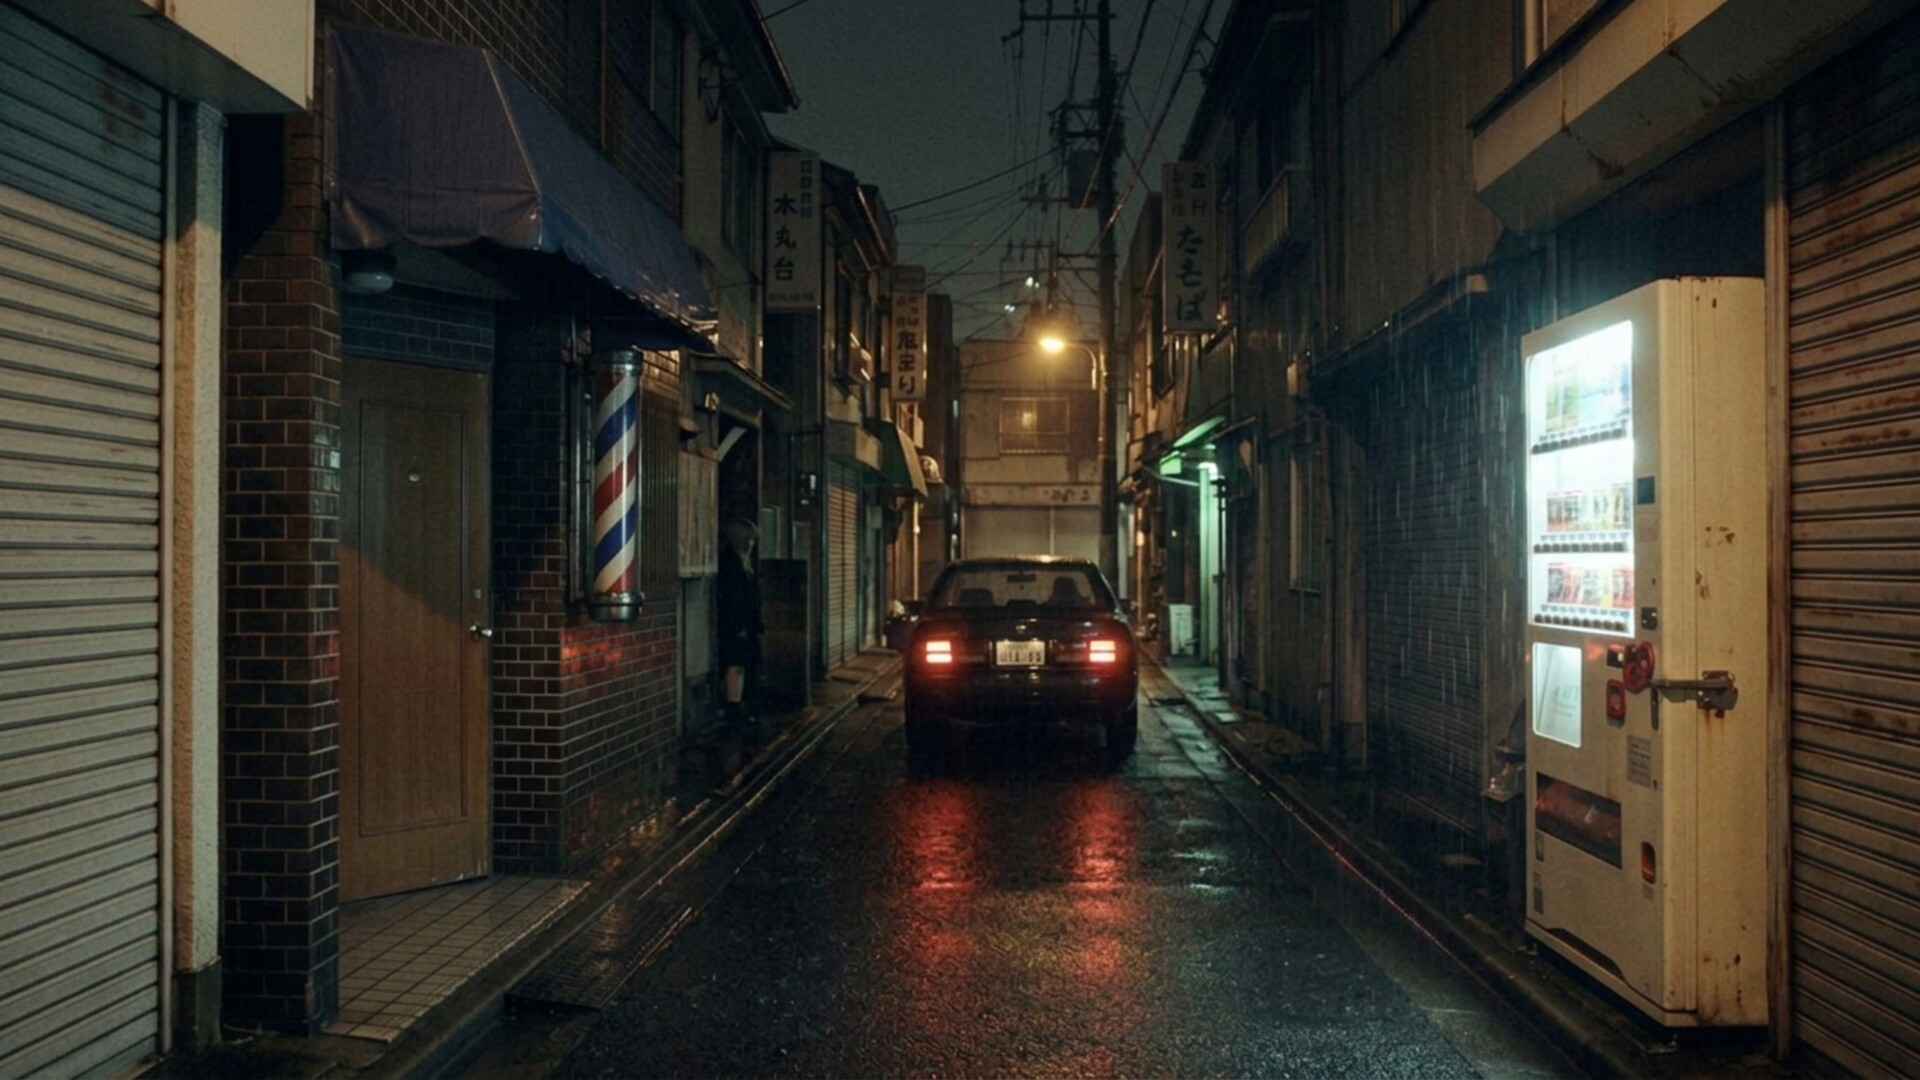
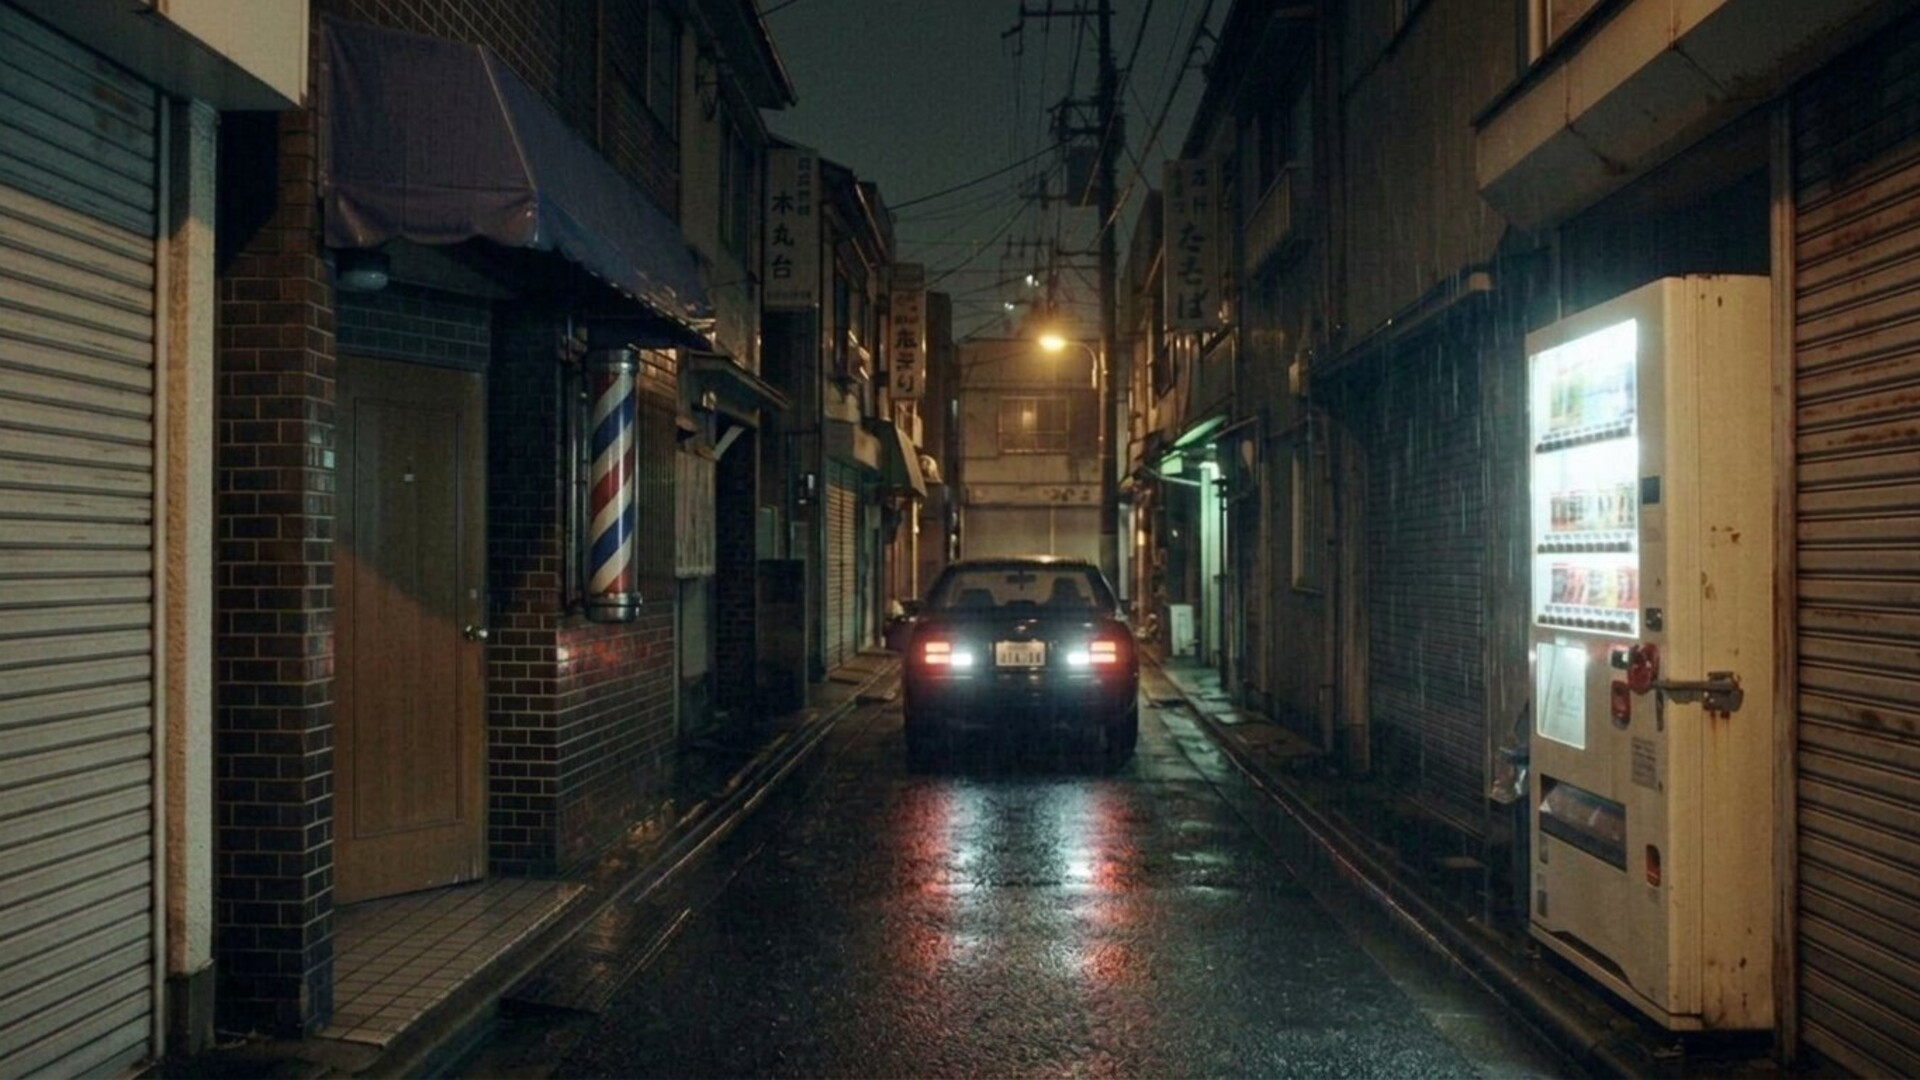
Retake shot 13: the sedan backs out, it does not turn
The Kanda alley is one car wide and shot 8 stops the car nose-to-camera, so a turnaround does not fit. The departure now reads as a reverse: white reverse lamps with the red taillights, same camera, empty doorway.

diff --git a/docs/neonoire/handoff.md b/docs/neonoire/handoff.md
@@ -1,5 +1,9 @@
 # NEONOIRE — keyframe handoff
 
+## Current state — 27 September 2026
+
+Shot 13 (`s1/13-taillights-gone.jpg`) was retaken. The alley is one car wide and the sedan arrives nose-to-camera, so it cannot turn around. It backs out: white reverse lamps with the red taillights, same camera, doorway empty. Ledger: [taillights-backs-out.md](passes/taillights-backs-out.md). Scene 95's light-trail U-turn was not retaken.
+
 ## Current state — 26 September 2026
 
 The final screenplay is `Neonoire (3).fountain`: **100 scenes**, unchanged. The numbered board covers **all 100 scenes, 279 shots** — the first boarding (1–240) plus coverage (241–279) as of 26 September 2026. **All 279 shot images are on disk; no placeholder slots remain.** All images are full-bleed 16:9, 1920×1080 JPEG. The newest pass is **[the final coverage pass, shots 270–279](passes/coverage-270-279.md)**: ten new shots, one generation each with references attached — the packed suitcase, the sketchbook lie, Kurose's tiny white tree, the receipt bundle, the bow held too long, the kiss, Mara sliding down the wall, the borrowed umbrella, the clock reading 10:00 and her sister's smile — every frame reviewed at full size, every flaw logged in the ledger. Before it, **[looks, masks and paper props](passes/looks-masks-props.md)**: three more sheets — Vera's wine-red dress (`vera-look-b.jpg`), Mara's hiding look (`mara-hiding.jpg`) and the masked men's raid costume (`masked-man.jpg`) — plus six clean prop masters in `props/`: the four-line card, the DANIEL VOSS clipping, the 87 tag, the 金子 sign board, the MONTHLY. YEARLY. NO QUESTIONS. board and the 8:52 sign, every letter read at full size before install. One call died on a stale path (`s61` for `s67`'s frame) and was re-listed and retaken. Before it, the **[cast-sheet pass](passes/cast-sheets.md)**: nine identity sheets in the house layout from ten calls — Kaneko, Okada, Kurose, Mr. and Mrs. Noda, the repairman, Harada, the young detective, and Vera's Look F (teal peacoat, red clip). The first repairman sheet was discarded for describing him from memory (no glasses, wrong jacket); the retake holds to `s87/124`. Sheets carry faces and garments; scene masters still carry rooms, light and staging. Mara's hiding look remains held to `s13/179-eat.jpg`. Before it, [consistency retakes two](passes/consistency-retakes-2.md) closed the pole, the strap, the wood, the card, the headcount and the rail, and [consistency retakes one](passes/consistency-retakes-1.md) locked the third-stool motif, the 金子 sign, Mr. Noda behind the counter and Jack's hands at 48. Review sheets are one command: `npm run review:neonoire -- <out.jpg> s65 ...`.

diff --git a/docs/neonoire/scenes/n01-backstreet.md b/docs/neonoire/scenes/n01-backstreet.md
@@ -126,13 +126,13 @@ IMAGE: 12-masked-man-radio.jpg
 NOTE: He is a man doing a job on a shift. Mundane, never menacing in performance; the voice on the radio does the work.
 
 13. WIDE — 35mm, static, eye level — the sedan pulls away.
-They get back in the car. It pulls away, unhurried, taillights smearing red across the wet road and gone. Rain, the vending machine hum, the crossing melody still playing for no one. Mara doesn't move.
+Same camera as the arrival. The alley is one car wide, so the sedan cannot turn around. It stopped nose-to-camera; it backs straight out the way it came, rear to camera, white reverse lamps lit with the red taillights, a short smear of both on the wet asphalt. Doors closed. The doorway stays empty. Mara doesn't move.
 SCRIPT: "It pulls away, unhurried. Taillights smear red across the road and are gone."
 CAST: —
 LIGHT: Practical night
 TIME: 10
 IMAGE: 13-taillights-gone.jpg
-NOTE: A pedestrian crossing chimes somewhere off camera for an empty intersection, over and over. The street is emptier after they leave than it was before they came.
+NOTE: Retake 27 September 2026. The alley will not take a turn: shot 8 stops the sedan nose-to-camera with the doors against the walls, so the rear already points down the lane. It backs out. It does not turn. White reverse lamps are the proof, with the red taillights. The plate is not legible and is not claimed. The vending face drifted slightly from the master; the pole, the door and the side hold. No people. A pedestrian crossing chimes somewhere off camera for an empty intersection, over and over. The street is emptier after they leave than it was before they came.
 
 14. MEDIUM — 50mm, static, eye level — she kneels.
 She steps out into the rain and kneels beside him: "It's okay — I'll get someone. Ambulance. I'll call. Ambulance." Her phone is off, and her hands shake too hard to turn it on.

diff --git a/docs/neonoire/passes/taillights-backs-out.md b/docs/neonoire/passes/taillights-backs-out.md
@@ -1,0 +1,21 @@
+# NEONOIRE — shot 13 retake: the sedan backs out (27 September 2026)
+
+**Scope:** one retake of shot 13, `s1/13-taillights-gone.jpg`. Nothing renumbered. Two generations were spent. The first faced the car the wrong way (headlights toward camera) and was not installed.
+
+Review sheet: [taillights-backs-out.jpg](../../../public/images/neonoire/reviews/taillights-backs-out.jpg) — shot 8 beside the retake.
+
+## Why it cannot turn around
+
+Shot 8 stops the sedan nose-to-camera in an alley one car wide. The open doors already sit against the walls. A U-turn or a three-point turn does not fit. The rear already points down the lane, back the way it came. The only departure that shows taillights to this camera is a reverse.
+
+The previous frame had the rear toward camera and red tails only, which read as a forward drive-away — a car that had faced about. That was the error.
+
+## The retake
+
+Same camera, same alley: barber pole and door on the left, vending machine on the right. The sedan backs straight out. Rear to camera, doors closed, not steered. White reverse lamps are lit with the red taillights, and both smear on the wet asphalt between the car and the camera. The doorway is empty. Mara does not move. No people.
+
+## Caveats
+
+- The plate is not legible. Do not claim a number.
+- The vending face drifted slightly from the master. The pole, the door and the side hold.
+- Scene 95 (`s95/142-taillights.jpg`) was not retaken. Its light trail still draws a U-turn. The script there asks for a corner, on a different street, and that frame is a separate question.

diff --git a/docs/neonoire/passes/cold-open-revision.md b/docs/neonoire/passes/cold-open-revision.md
@@ -42,7 +42,7 @@ All revised files are full-bleed **1920×1080**, fine 35mm grain, muted practica
 
 11. Mara covers her mouth with both hands, still hidden in the same recess.
 12. Same masked man listens to earpiece; only eyes exposed.
-13. Same sedan departs unhurriedly, red taillights; no chase.
+13. Same sedan departs unhurriedly, red taillights; no chase. Retake 27 September 2026: it backs out, it does not turn — the alley is one car wide. See [taillights-backs-out.md](taillights-backs-out.md).
 14. Mara kneels next to the fallen man, fumbling her switched-off phone; handbag still present.
 15. His hand catches her wrist and transfers the key; keep bodies/coat positions, not a newly seated man.
 16. Worn numbered locker-key tag 87, no invented exposition.
